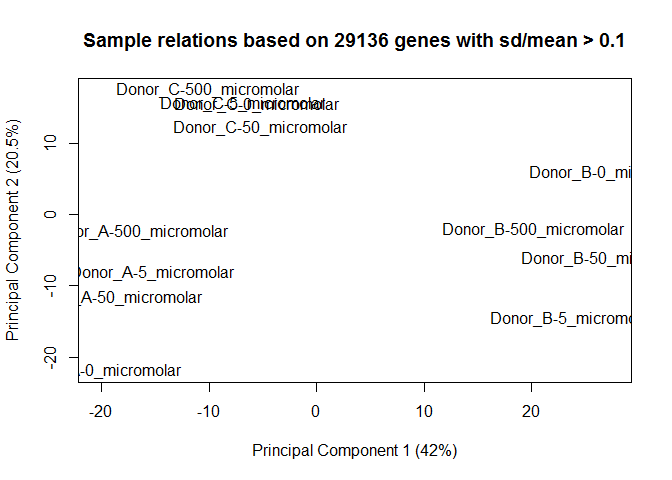
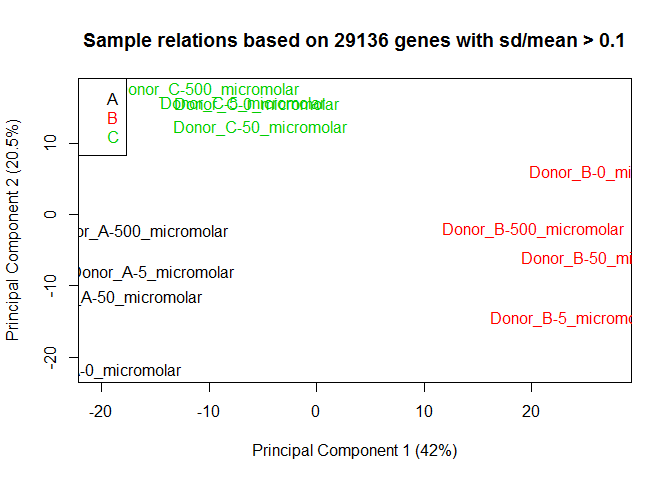
Color the principal components plot

diff --git a/raw-data-analysis.md b/raw-data-analysis.md
@@ -4,31 +4,31 @@
 SOME PLOTS OF NON NORMALIZED DATA: density plot, cdf plot ![](raw-data-analysis_files/figure-markdown_github/unnamed-chunk-3-1.png) ![](raw-data-analysis_files/figure-markdown_github/unnamed-chunk-3-2.png) ![](raw-data-analysis_files/figure-markdown_github/unnamed-chunk-3-3.png) ![](raw-data-analysis_files/figure-markdown_github/unnamed-chunk-3-4.png)
 
     ## Perform vst transformation ...
-    ## 2016-01-05 10:53:36 , processing array  1 
-    ## 2016-01-05 10:53:36 , processing array  2 
-    ## 2016-01-05 10:53:36 , processing array  3 
-    ## 2016-01-05 10:53:36 , processing array  4 
-    ## 2016-01-05 10:53:36 , processing array  5 
-    ## 2016-01-05 10:53:36 , processing array  6 
-    ## 2016-01-05 10:53:36 , processing array  7 
-    ## 2016-01-05 10:53:36 , processing array  8 
-    ## 2016-01-05 10:53:36 , processing array  9 
-    ## 2016-01-05 10:53:36 , processing array  10 
-    ## 2016-01-05 10:53:36 , processing array  11 
-    ## 2016-01-05 10:53:36 , processing array  12 
+    ## 2016-01-05 10:57:31 , processing array  1 
+    ## 2016-01-05 10:57:32 , processing array  2 
+    ## 2016-01-05 10:57:32 , processing array  3 
+    ## 2016-01-05 10:57:32 , processing array  4 
+    ## 2016-01-05 10:57:32 , processing array  5 
+    ## 2016-01-05 10:57:32 , processing array  6 
+    ## 2016-01-05 10:57:32 , processing array  7 
+    ## 2016-01-05 10:57:32 , processing array  8 
+    ## 2016-01-05 10:57:32 , processing array  9 
+    ## 2016-01-05 10:57:32 , processing array  10 
+    ## 2016-01-05 10:57:32 , processing array  11 
+    ## 2016-01-05 10:57:32 , processing array  12 
     ## Perform rsn normalization ...
-    ## 2016-01-05 10:53:37 , processing array  1 
-    ## 2016-01-05 10:53:37 , processing array  2 
-    ## 2016-01-05 10:53:37 , processing array  3 
-    ## 2016-01-05 10:53:37 , processing array  4 
-    ## 2016-01-05 10:53:38 , processing array  5 
-    ## 2016-01-05 10:53:38 , processing array  6 
-    ## 2016-01-05 10:53:38 , processing array  7 
-    ## 2016-01-05 10:53:38 , processing array  8 
-    ## 2016-01-05 10:53:38 , processing array  9 
-    ## 2016-01-05 10:53:38 , processing array  10 
-    ## 2016-01-05 10:53:38 , processing array  11 
-    ## 2016-01-05 10:53:38 , processing array  12 
+    ## 2016-01-05 10:57:33 , processing array  1 
+    ## 2016-01-05 10:57:33 , processing array  2 
+    ## 2016-01-05 10:57:33 , processing array  3 
+    ## 2016-01-05 10:57:33 , processing array  4 
+    ## 2016-01-05 10:57:33 , processing array  5 
+    ## 2016-01-05 10:57:33 , processing array  6 
+    ## 2016-01-05 10:57:33 , processing array  7 
+    ## 2016-01-05 10:57:33 , processing array  8 
+    ## 2016-01-05 10:57:33 , processing array  9 
+    ## 2016-01-05 10:57:33 , processing array  10 
+    ## 2016-01-05 10:57:34 , processing array  11 
+    ## 2016-01-05 10:57:34 , processing array  12 
     ## Perform Quality Control assessment of the LumiBatch object ...
 
 PLOTS OF NORMALIZED DATA
